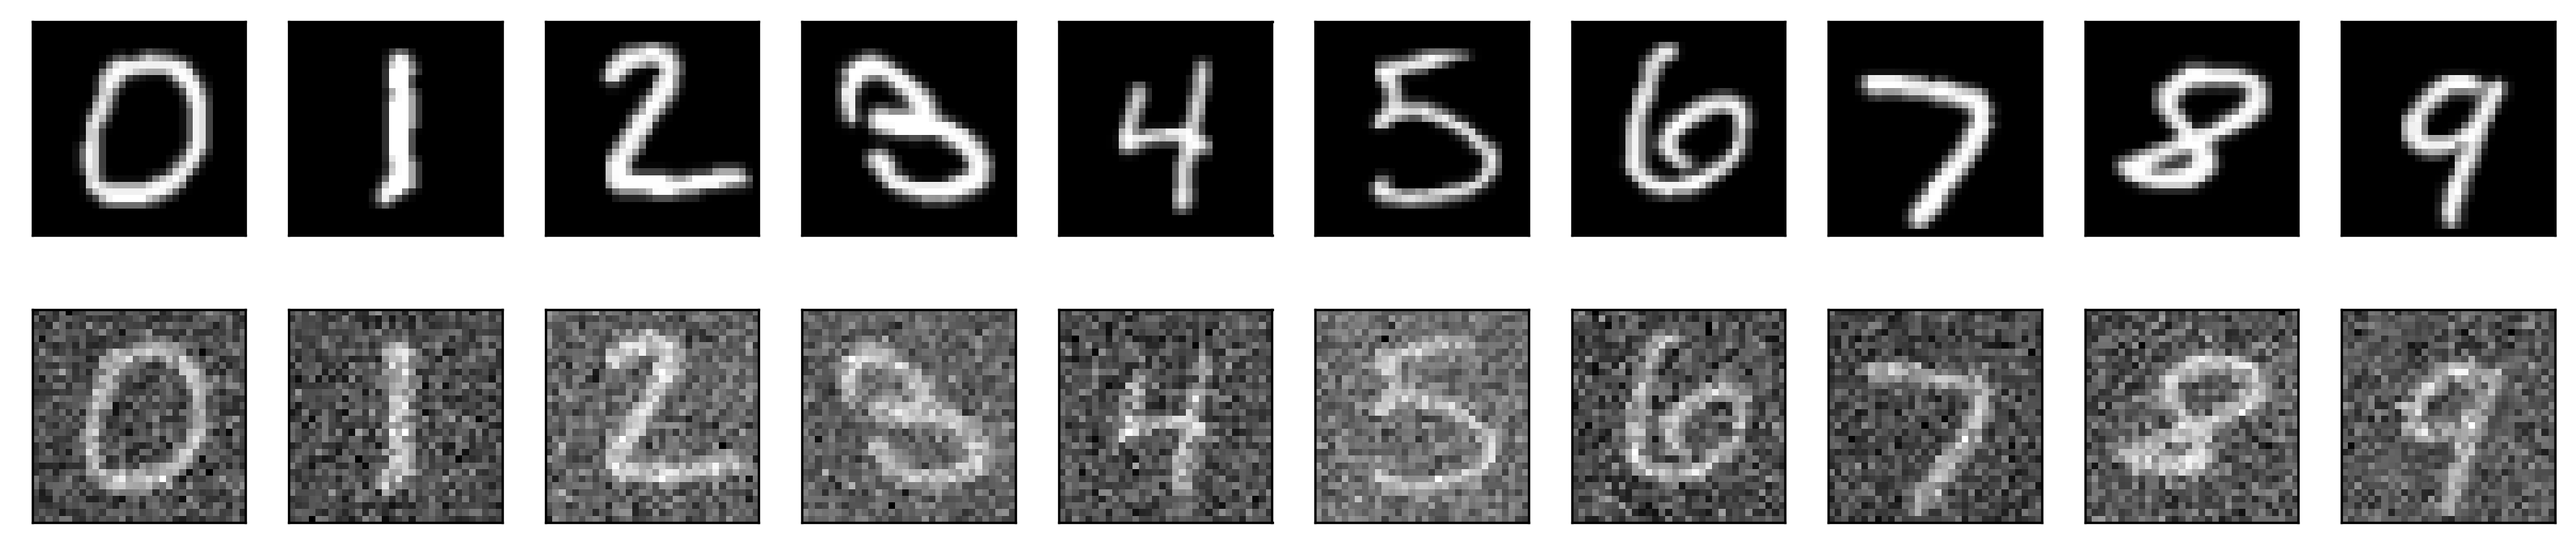
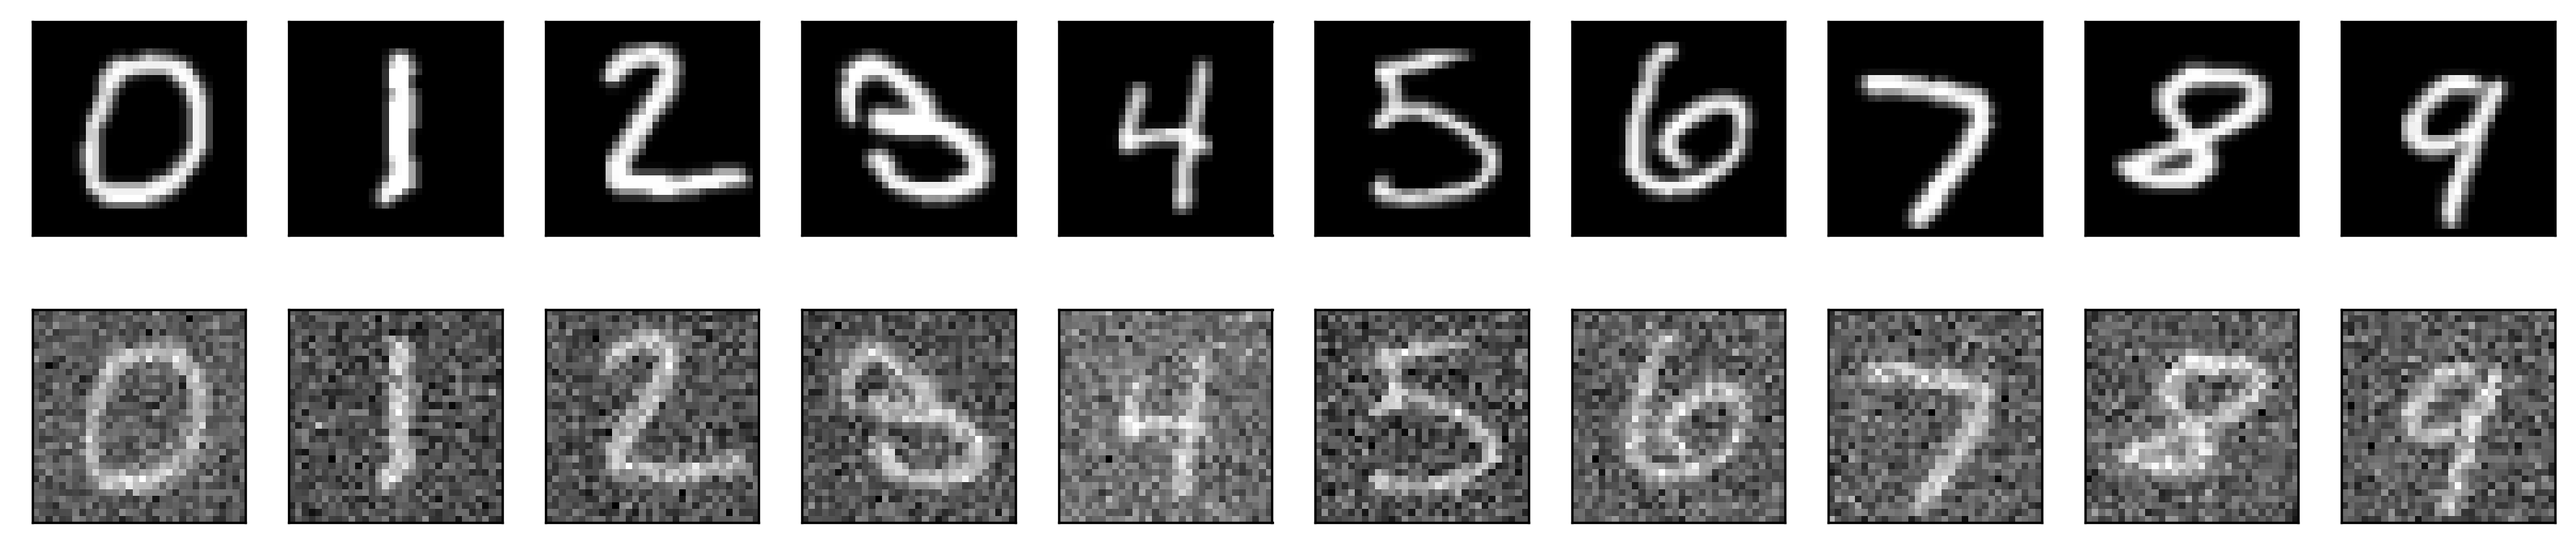
Finished 1A+1B

Changed region(s): [[0.0, 0.5618, 0.9952, 0.9363]]

diff --git a/MNIST_dataloader.py b/MNIST_dataloader.py
@@ -1,9 +1,10 @@
 # %% imports
 # pytorch
 import torch
+import torch.nn as nn
 from torchvision import transforms,datasets
 from torch.utils.data import Dataset,DataLoader
-
+import numpy as np
 # pyplot
 import matplotlib.pyplot as plt
 
@@ -97,3 +98,124 @@ if __name__ == "__main__":
     plt.savefig("data_examples.png",dpi=300,bbox_inches='tight')
     plt.show()
 # %%
+# Week 1
+# 1A create python function for denoising MNIST
+
+# ISTA function for denoising
+def ista_denoise(noisy_image, step_size, num_steps, lambda_val):
+    # Define the denoising network
+    denoiser = nn.Sequential(
+        nn.Conv2d(1, 64, kernel_size=3, padding=1),
+        nn.ReLU(inplace=True),
+        nn.Conv2d(64, 64, kernel_size=3, padding=1),
+        nn.ReLU(inplace=True),
+        nn.Conv2d(64, 1, kernel_size=3, padding=1)
+    )
+
+    # Scale the noisy image to the range [0, 2] and shift it to the range [-1, 1]
+    noisy_image = (noisy_image + 1) * 0.5
+
+    # Initialize the denoised image
+    denoised_image = torch.zeros_like(noisy_image)
+
+    # Perform ISTA denoising
+    for i in range(num_steps):
+        # Compute the gradient of the denoising network
+        gradient = denoiser(denoised_image)
+
+        # Compute the residual
+        residual = noisy_image - gradient
+
+        # Update the denoised image
+        denoised_image = denoised_image + step_size * residual
+
+        # Apply proximal operator (soft-thresholding)
+        denoised_image = soft_threshold(denoised_image, lambda_val * step_size)
+
+    # Scale the denoised image back to the range [-1, 1] and shift it to the range [0, 1]
+    denoised_image = denoised_image * 2 - 1
+    denoised_image = torch.clamp(denoised_image, 0, 1)
+
+    # Convert the denoised image back to a numpy array
+    denoised_image = denoised_image.squeeze().squeeze().detach().numpy()
+
+    return denoised_image
+
+def soft_threshold(x, threshold):
+    return torch.sign(x) * torch.max(torch.abs(x) - threshold, torch.zeros_like(x))
+
+
+# %%
+
+data_loc = 'D://5LSL0-Datasets' #change the datalocation to something that works for you
+batch_size = 10
+    
+# get dataloader
+train_loader, test_loader = create_dataloaders(data_loc, batch_size)
+    
+# get some examples
+examples = enumerate(test_loader)
+_, (x_clean_example, x_noisy_example, labels_example) = next(examples)
+
+# %% 1B Show results of denoising
+# Define constants
+mu = 0.1
+K = 100
+lambda_test = 0.1
+
+# Create empty lists
+denoised_images_list = []
+clear_images_list = []
+noisy_images_list = []
+
+for i in range(batch_size):
+    denoised_image = ista_denoise(x_noisy_example[i,:,:,:], step_size=mu, num_steps=K, lambda_val=lambda_test)
+    denoised_images_list.append(denoised_image)
+
+    clear_images_list.append(x_clean_example[i,:,:,:])
+
+    noisy_images_list.append(x_noisy_example[i,:,:,:])
+
+# %%
+# Assuming you have a list of noisy images and denoised images
+clear_images = clear_images_list  # List of clear images (NumPy arrays)
+denoised_images = denoised_images_list  # List of denoised images (NumPy arrays)
+noisy_images = noisy_images_list # List of noisy images (NumPy arrays)
+
+num_images = len(denoised_images)
+
+# Create a figure with subplots for each image
+fig, axes = plt.subplots(nrows=3, ncols=num_images, figsize=(6 * num_images, 8))
+
+for i in range(num_images):
+    # Get the noisy image and denoised image for the current iteration
+    noisy_images_np = noisy_images [i].squeeze()
+    clear_image_np = clear_images[i].squeeze()
+    denoised_image_np = denoised_images[i].squeeze()
+
+    # Plot the denoised image in the first row of subplots
+    axes[0, i].imshow(noisy_images_np, cmap='gray')
+    axes[0, i].set_title('Noisy Image')
+    axes[0, i].axis('off')  
+
+    # Plot the denoised image in the first row of subplots
+    axes[1, i].imshow(denoised_image_np, cmap='gray')
+    axes[1, i].set_title('Denoised Image')
+    axes[1, i].axis('off')  
+
+    # Plot the clear image in the second row of subplots
+    axes[2, i].imshow(clear_image_np, cmap='gray')
+    axes[2, i].set_title('Clear Image')
+    axes[2, i].axis('off')
+
+
+# Adjust the spacing between subplots
+plt.tight_layout()
+
+# Display the figure
+plt.show()
+
+# Save Figure
+
+plt.savefig('1B_denoised_ISTA')
+# %% 1C Evalute performance
